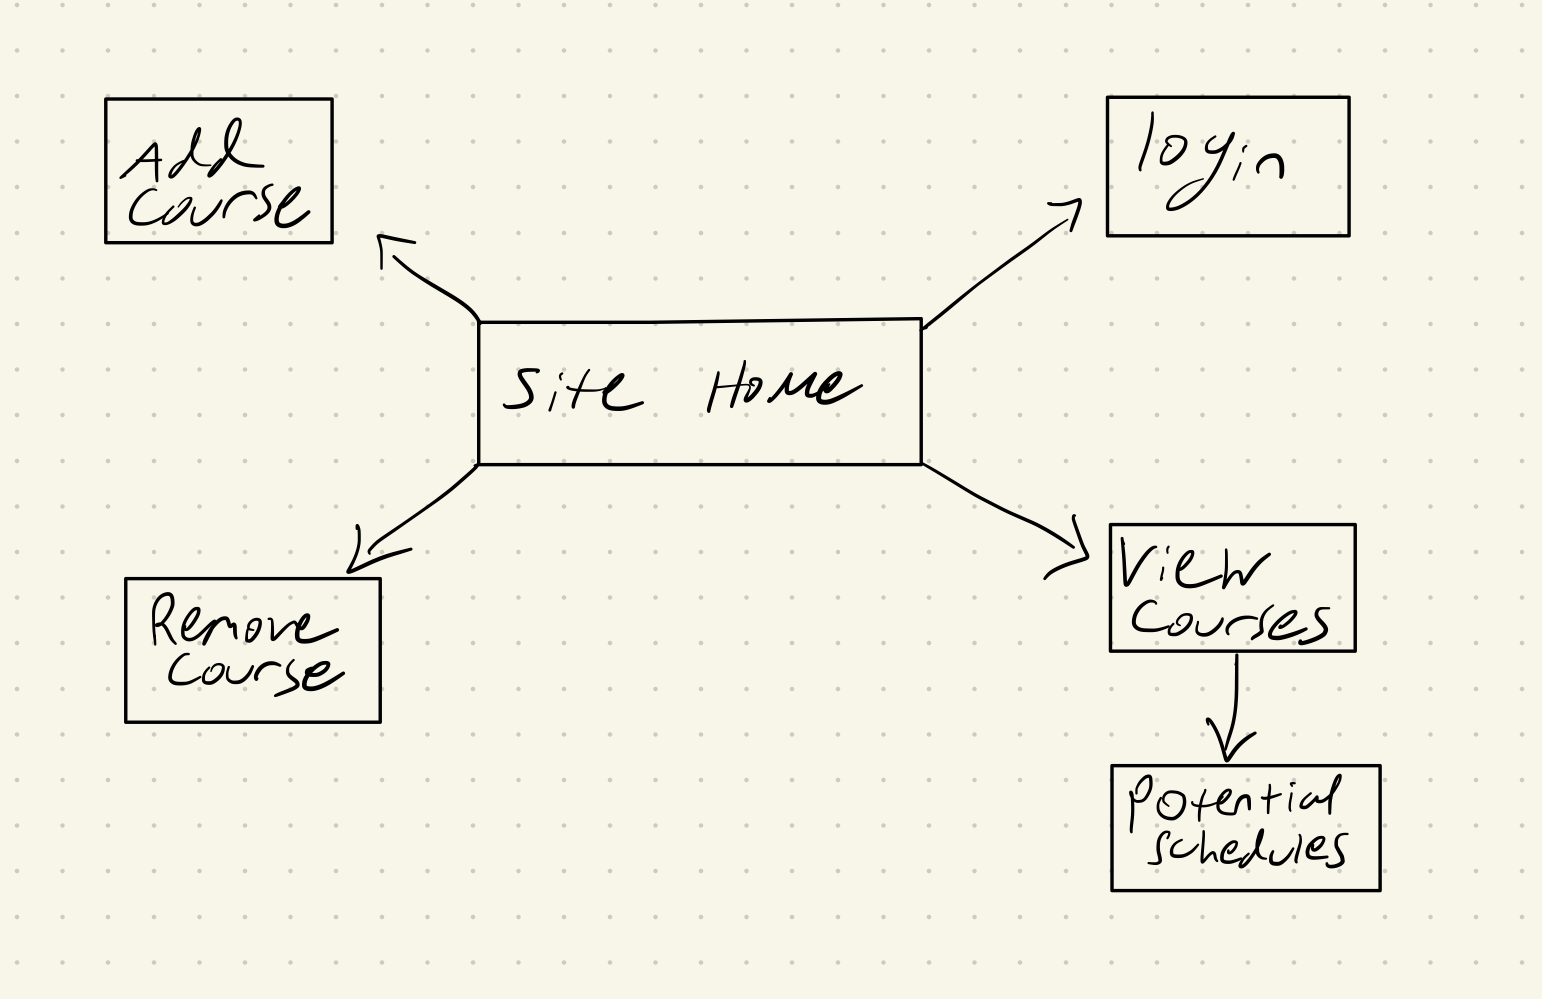
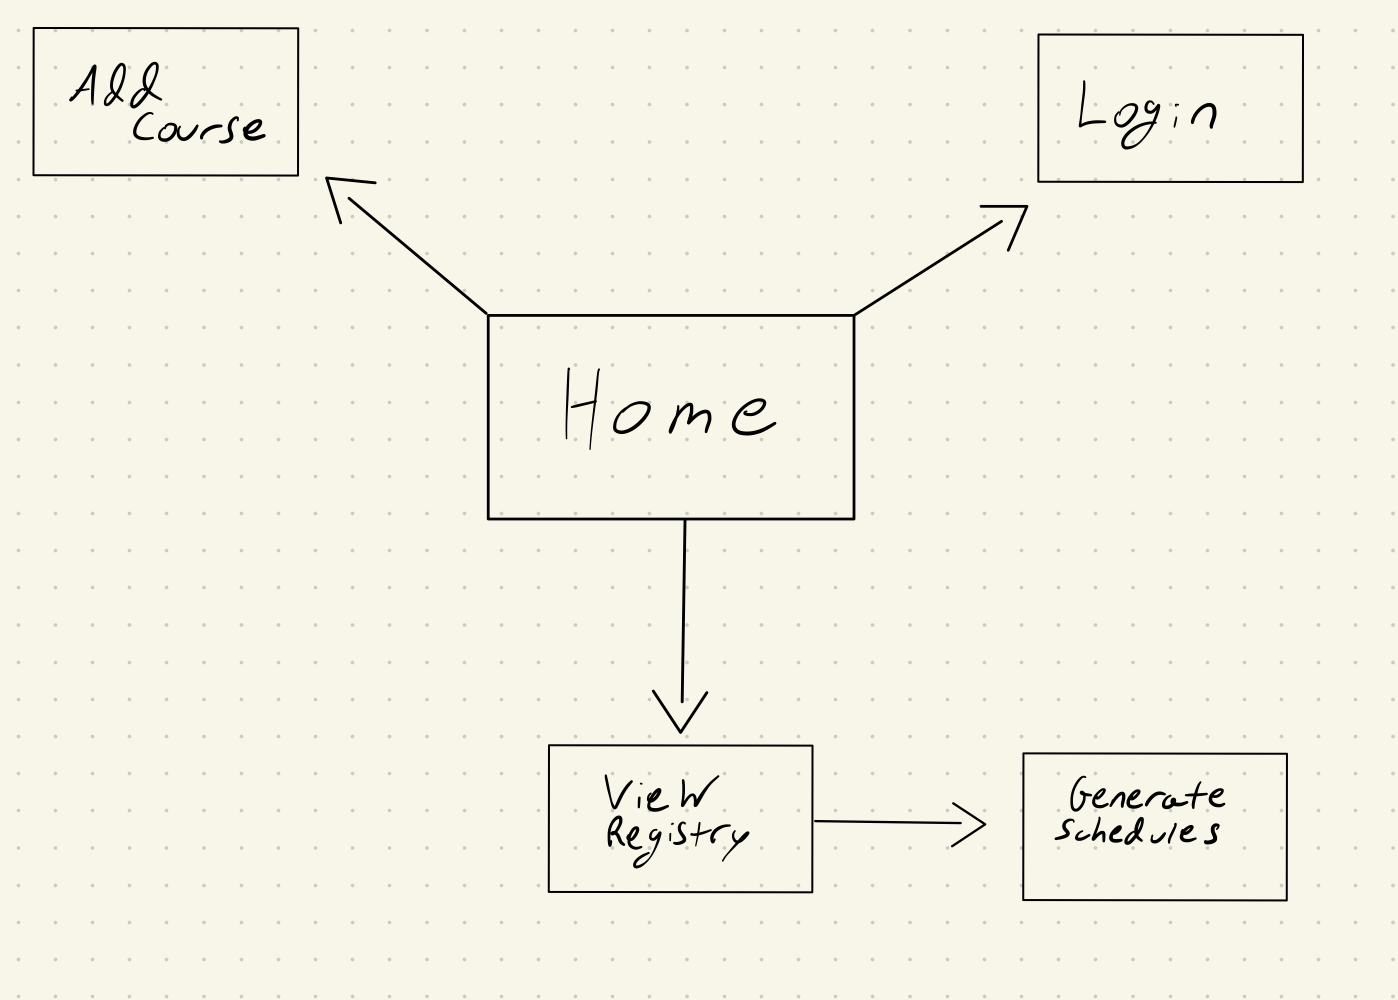
updated README to reflect progress

diff --git a/README.md b/README.md
@@ -14,7 +14,7 @@ The application will store Users, Courses, scheduled times, and Professors
 
 * users can have many courses (via reference)
 * courses can have multiple time blocks (by embedding)
-* courses can have multiple proessors (by reference)
+* courses can have multiple proessors (by embedding)
 
 An Example User:
 
@@ -39,25 +39,27 @@ An Example Course with Embedded Items:
     ],
     Professors: [
         {first: "Joe", last: "Versoza", rating: 3.5}
-    ]
+    ],
+    mandatory: true, // Thank you to the grader who recommended I include this in my schema
+    color: #FFFFFF,
 }
 ```
 
-## [Link to Commented First Draft Schema](models/course.mjs) 
+## [Link to Schema](models/course.mjs) 
 
 ## Wireframes
 
+/courses - page for showing the courses in registry
+
+![list create](documentation/view-courses.png)
+
 /courses/add - page for creating a new shopping list
 
-![list create](documentation/add-course.jpeg)
+![list](documentation/add-course.png)
 
-/courses - page for showing all courses
+/courses/schedules - page for viewing schedules based on registry
 
-![list](documentation/view-courses.jpeg)
-
-/courses/remove - page for selecting course to remove
-
-![list](documentation/remove-course.jpeg)
+![list](documentation/generated-schedules.png)
 
 ## Site Map
 
@@ -78,9 +80,9 @@ An Example Course with Embedded Items:
 
 * (5 points) Integrate user authentication
     * I'm going to be using passport for user authentication
-* (4 points) Perform client side form validation using a JavaScript library
+* (3 points) Perform client side form validation using a JavaScript library
     * If you put in a number that's in an invalid format (such as bad time slot format, bad course name format), a message will appear in the DOM
-* (1 point) Use Bootstrap as a CSS Framework
+* (2 point) Use Bootstrap as a CSS Framework
     * Will configure a theme using Bootstrap to make the website hurt the user's brain a little bit less
 * (5 points) NYU Course System API
     * This one is a long shot for if I happen to get the rest of the project done
@@ -93,4 +95,5 @@ An Example Course with Embedded Items:
 ## Annotations / References Used
 
 1. [Bootstrap documentation: my best friend](https://getbootstrap.com/docs/5.3/getting-started/introduction/) - [course-list.hbs](views/course-list.hbs), [add-course.hbs](views/add-course.hbs),  [schedules.hbs](views/schedules.hbs) 
+2. [Bouncer.js for client-side form validation](https://github.com/cferdinandi/bouncer) - [layout.hbs](views/layout.hbs) [add-course.hbs](views/add-course.hbs)
 
